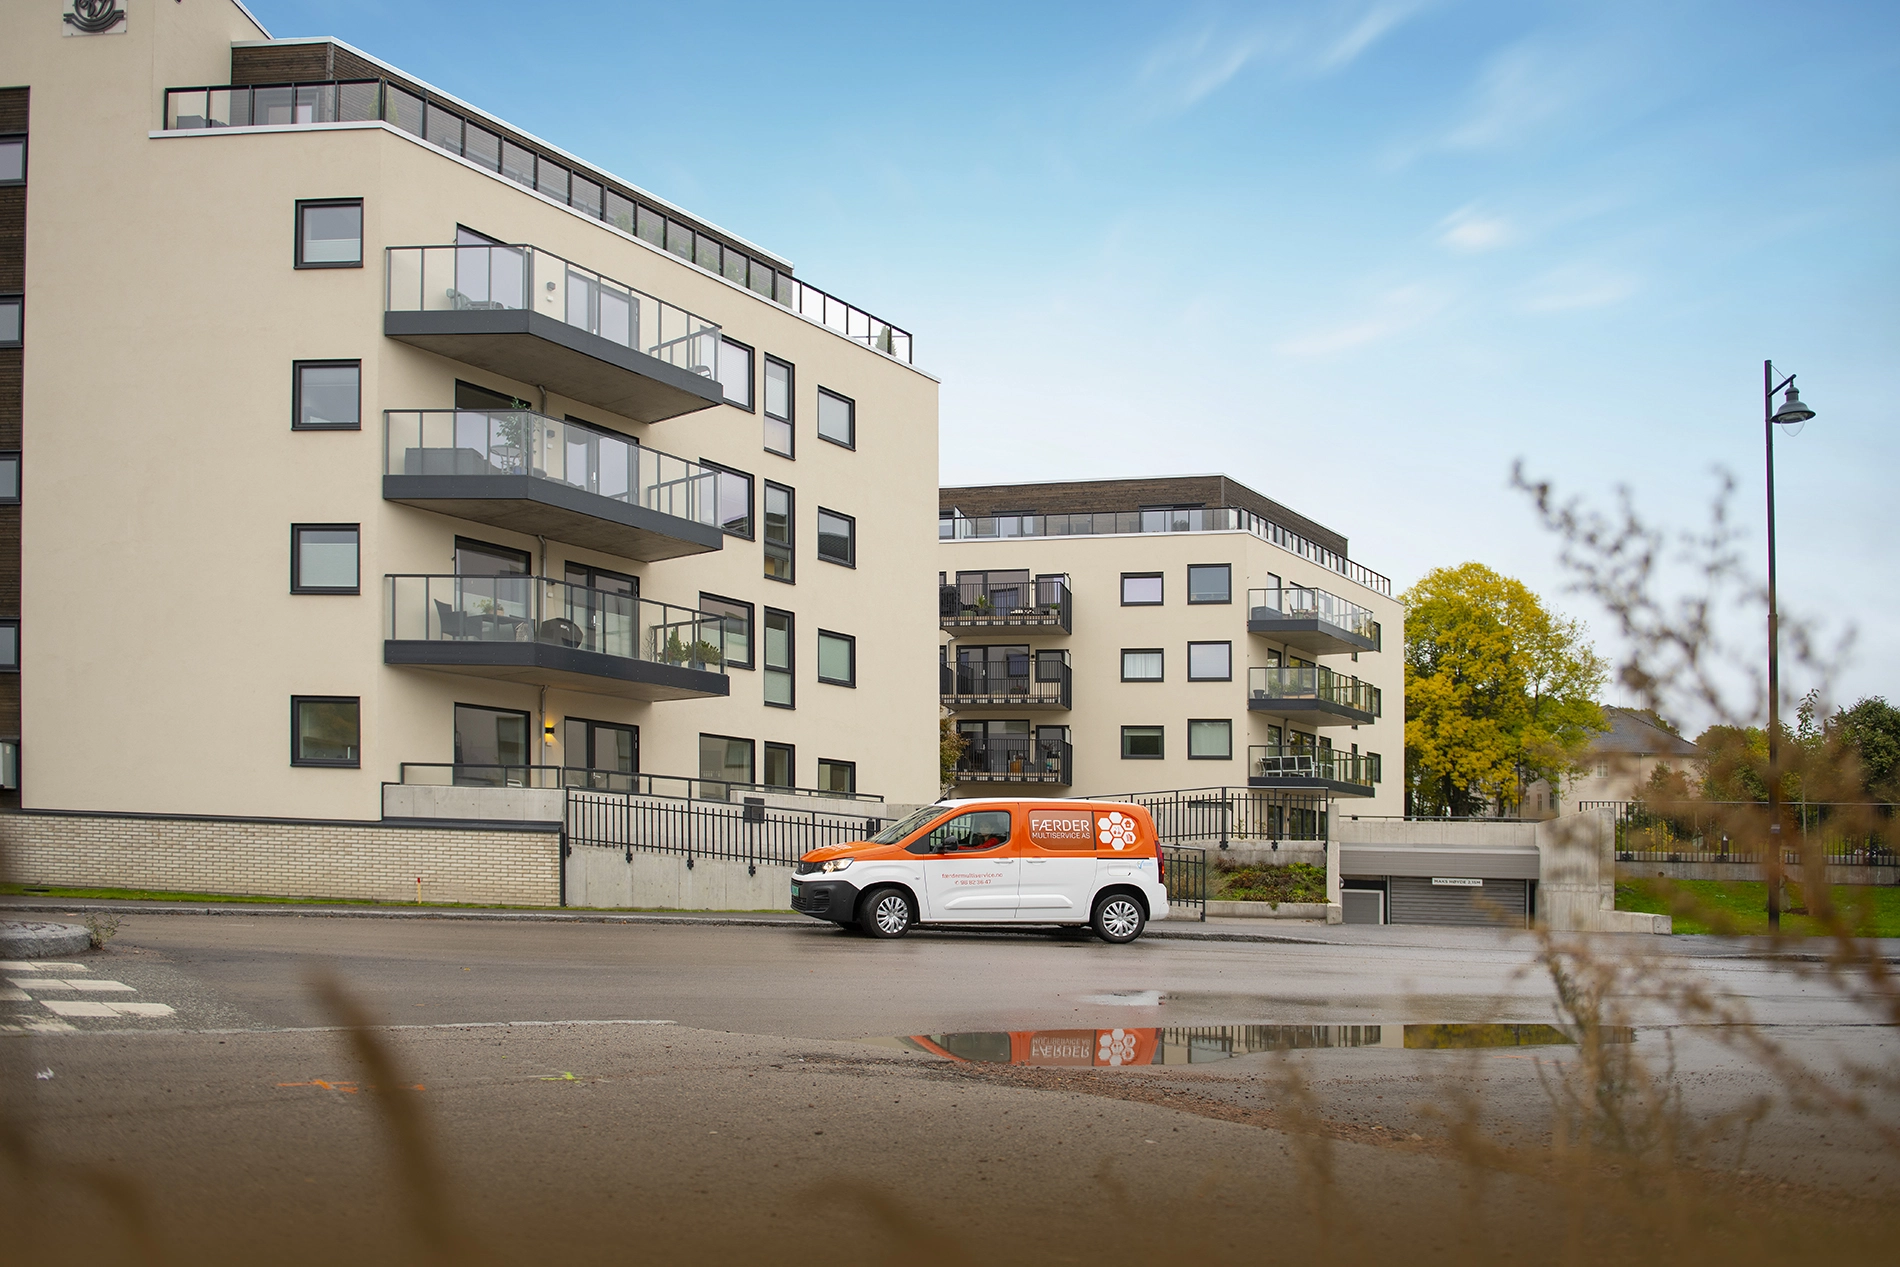
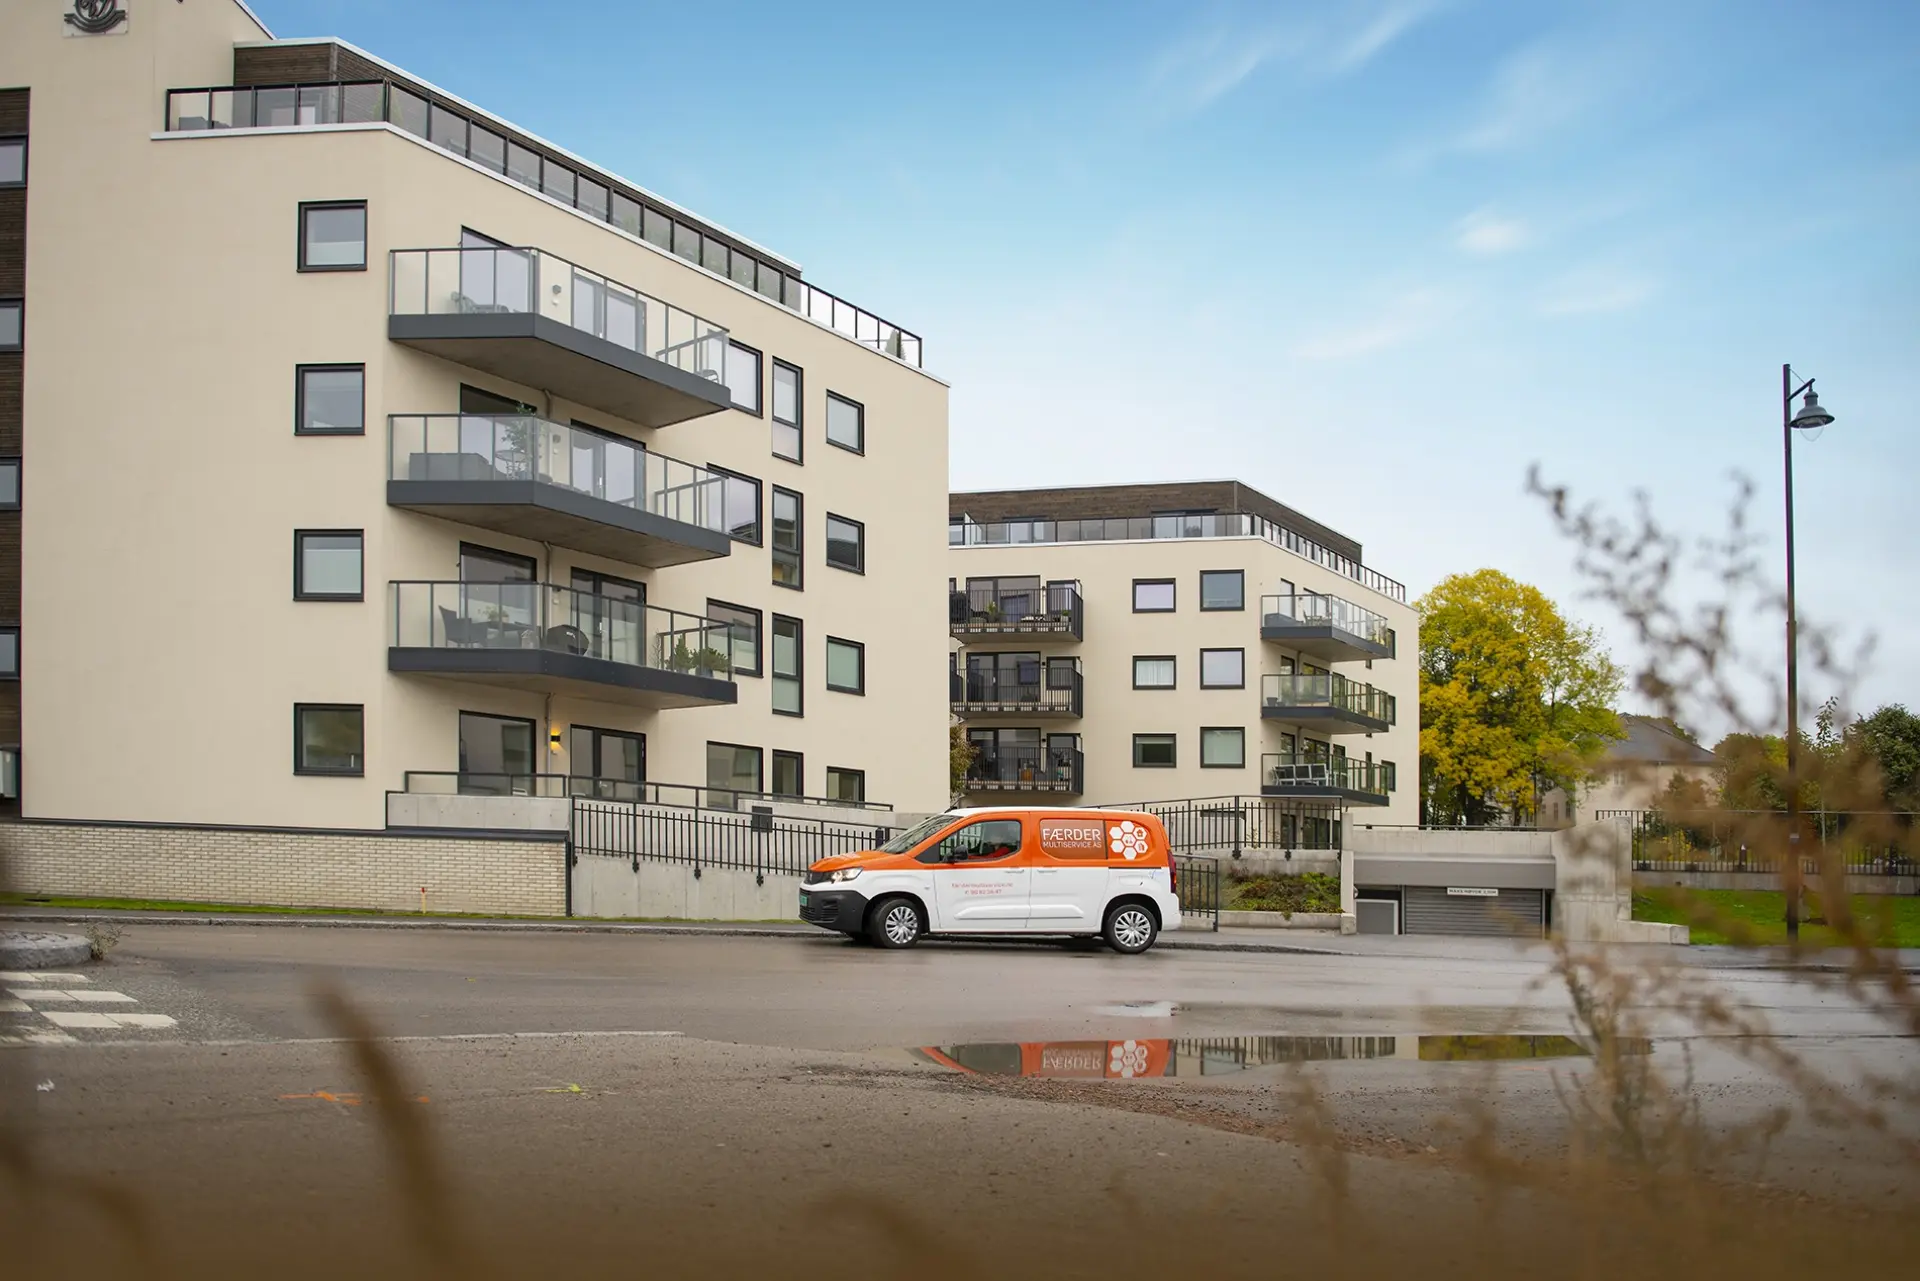
fix: lazy-init Resend client, optimize images, fix text errors
- Make Resend client lazy-initialized to avoid build crash when
  RESEND_API_KEY is not set (fixes Vercel deploy)
- Convert PNGs to WebP and compress all images (~20MB saved)
- Remove unused template SVGs (next.svg, vercel.svg, etc.)
- Fix Norwegian grammar ("Boligen skinner", "Len deg tilbake")
- Correct homepage prices to match services.ts

diff --git a/src/app/page.tsx b/src/app/page.tsx
@@ -18,12 +18,12 @@ import { testimonials } from "@/data/testimonials";
 import { blogPosts } from "@/data/blog";
 
 const tjenester = [
-  { name: "Fast vask", pris: "350 kr/t", slug: "fast-vask", icon: Home },
-  { name: "Flyttevask", pris: "3 500 kr", slug: "flyttevask", icon: Truck },
-  { name: "Kontorvask", pris: "Avtale", slug: "kontorvask", icon: Building2 },
-  { name: "Byggvask", pris: "400 kr/t", slug: "byggvask", icon: HardHat },
-  { name: "Spesialvask", pris: "350 kr/t", slug: "spesialvask", icon: Sparkles },
-  { name: "Luktsanering", pris: "Befaring", slug: "luktsanering", icon: Wind },
+  { name: "Fast vask", pris: "Fra 550 kr", slug: "fast-vask", icon: Home },
+  { name: "Flyttevask", pris: "Fra 3 500 kr", slug: "flyttevask", icon: Truck },
+  { name: "Kontorvask", pris: "Etter avtale", slug: "kontorvask", icon: Building2 },
+  { name: "Byggvask", pris: "Fra 5 000 kr", slug: "byggvask", icon: HardHat },
+  { name: "Spesialvask", pris: "Fra 800 kr", slug: "spesialvask", icon: Sparkles },
+  { name: "Luktsanering", pris: "Fra 3 000 kr", slug: "luktsanering", icon: Wind },
 ];
 
 /* ── Service card — icon + text, no images ── */
@@ -38,7 +38,7 @@ function TjenesteKort({ t }: { t: (typeof tjenester)[number] }) {
       <Icon size={48} strokeWidth={1.2} className="text-primary" />
 
       <h3 className="mt-4 text-[16px] font-semibold tracking-tight text-text">{t.name}</h3>
-      <p className="mt-1.5 text-[13px] font-medium text-primary">Fra {t.pris}</p>
+      <p className="mt-1.5 text-[13px] font-medium text-primary">{t.pris}</p>
 
       <ArrowRight size={14} className="mt-3 text-text-secondary/30 transition-all duration-300 group-hover:translate-x-1 group-hover:text-primary" />
     </Link>
@@ -162,7 +162,7 @@ const stegData = [
   {
     nr: "03",
     tittel: "Vi gjør jobben",
-    tekst: "Lén deg tilbake. Vi fikser resten — grundig og skikkelig.",
+    tekst: "Len deg tilbake. Vi fikser resten — grundig og skikkelig.",
     bilde: "/images/illustrations/steg-vasker.webp",
     alt: "Vasketeamet i arbeid",
     rotate: "-1deg",
@@ -573,7 +573,7 @@ function CTASeksjon() {
           <div className="relative mx-auto max-w-[280px] lg:max-w-[380px]">
             <div className="absolute -top-8 -left-8 -z-10 h-[300px] w-[300px] rounded-full bg-primary/[0.06]" aria-hidden="true" />
             <Image
-              src="/images/illustrations/hjem_til_rent_hus.png"
+              src="/images/illustrations/hjem_til_rent_hus.webp"
               alt="Glad person som kommer hjem til rent hus"
               width={380}
               height={380}

diff --git a/src/data/blog.ts b/src/data/blog.ts
@@ -17,7 +17,7 @@ export const blogPosts: BlogPost[] = [
     excerpt:
       "Skal du flytte? Her er fem tips som gjør at du får tilbake depositumet og leverer en bolig du kan være stolt av.",
     tags: ["Tips", "Flyttevask"],
-    image: "/images/illustrations/blogg-flyttevask.png",
+    image: "/images/illustrations/blogg-flyttevask.webp",
     date: "Februar 2026",
     seoTitle: "5 ting du bør vite før du bestiller flyttevask — Færder Multiservice",
     seoDescription:
@@ -45,7 +45,7 @@ export const blogPosts: BlogPost[] = [
     excerpt:
       "Ukentlig, annenhver uke eller månedlig? Vi hjelper deg å finne riktig frekvens for hjemmet ditt.",
     tags: ["Guide", "Fast vask"],
-    image: "/images/illustrations/blogg-fast-vask.png",
+    image: "/images/illustrations/blogg-fast-vask.webp",
     date: "Februar 2026",
     seoTitle: "Hvor ofte bør du ha fast vask? En guide — Færder Multiservice",
     seoDescription:
@@ -73,7 +73,7 @@ export const blogPosts: BlogPost[] = [
     excerpt:
       "Små daglige rutiner gjør en stor forskjell. Her er våre beste tips for et rent hjem — uten å bruke hele helgen.",
     tags: ["Tips", "Renhold"],
-    image: "/images/illustrations/blogg-rent-mellom.png",
+    image: "/images/illustrations/blogg-rent-mellom.webp",
     date: "Januar 2026",
     seoTitle: "Slik holder du hjemmet rent mellom vaskene — Færder Multiservice",
     seoDescription:
@@ -101,7 +101,7 @@ export const blogPosts: BlogPost[] = [
     excerpt:
       "Et rent arbeidsmiljø øker produktivitet, reduserer sykefravær og gir et bedre inntrykk på kunder og ansatte.",
     tags: ["Guide", "Kontor"],
-    image: "/images/illustrations/blogg-profesjonelt-renhold.png",
+    image: "/images/illustrations/blogg-profesjonelt-renhold.webp",
     date: "Januar 2026",
     seoTitle: "Derfor bør bedrifter investere i profesjonelt renhold — Færder Multiservice",
     seoDescription:

diff --git a/src/app/api/lead/route.ts b/src/app/api/lead/route.ts
@@ -3,8 +3,15 @@ import { Resend } from "resend";
 import { Ratelimit } from "@upstash/ratelimit";
 import { Redis } from "@upstash/redis";
 
-// ── Resend client ──
-const resend = new Resend(process.env.RESEND_API_KEY);
+// ── Resend client (lazy — avoids build crash when env var is missing) ──
+let _resend: Resend | null = null;
+function getResend() {
+  if (!_resend) {
+    if (!process.env.RESEND_API_KEY) return null;
+    _resend = new Resend(process.env.RESEND_API_KEY);
+  }
+  return _resend;
+}
 
 // ── Rate limiter (optional — skipped if env vars missing) ──
 const ratelimit =
@@ -55,6 +62,14 @@ export async function POST(req: NextRequest) {
     const valg = body.valg as Record<string, string> | undefined;
     const tillegg = body.tillegg as string[] | undefined;
     const estimertPris = String(body.estimertPris ?? "").trim();
+
+    const resend = getResend();
+    if (!resend) {
+      return NextResponse.json(
+        { error: "E-post er ikke konfigurert." },
+        { status: 503 }
+      );
+    }
 
     const fromEmail = process.env.RESEND_FROM_EMAIL ?? "onboarding@resend.dev";
     const notificationEmail = process.env.NOTIFICATION_EMAIL ?? "post@faerdermultiservice.no";

diff --git a/src/app/api/contact/route.ts b/src/app/api/contact/route.ts
@@ -3,8 +3,15 @@ import { Resend } from "resend";
 import { Ratelimit } from "@upstash/ratelimit";
 import { Redis } from "@upstash/redis";
 
-// ── Resend client ──
-const resend = new Resend(process.env.RESEND_API_KEY);
+// ── Resend client (lazy — avoids build crash when env var is missing) ──
+let _resend: Resend | null = null;
+function getResend() {
+  if (!_resend) {
+    if (!process.env.RESEND_API_KEY) return null;
+    _resend = new Resend(process.env.RESEND_API_KEY);
+  }
+  return _resend;
+}
 
 // ── Rate limiter (optional — skipped if env vars missing) ──
 const ratelimit =
@@ -68,6 +75,14 @@ export async function POST(req: NextRequest) {
     const sted = String(body.sted ?? "").trim();
     const tjeneste = String(body.tjeneste ?? "").trim();
     const melding = String(body.melding ?? "").trim();
+
+    const resend = getResend();
+    if (!resend) {
+      return NextResponse.json(
+        { error: "E-post er ikke konfigurert." },
+        { status: 503 }
+      );
+    }
 
     const fromEmail = process.env.RESEND_FROM_EMAIL ?? "onboarding@resend.dev";
     const notificationEmail = process.env.NOTIFICATION_EMAIL ?? "post@faerdermultiservice.no";

diff --git a/src/data/services.ts b/src/data/services.ts
@@ -333,7 +333,7 @@ export const services: Service[] = [
     steps: [
       { title: "Si ifra", description: "Boligtype, størrelse og når visningen er." },
       { title: "Du får fast pris", description: "Ingen overraskelser. Rett frem." },
-      { title: "Vi gjør den klar", description: "Boligen skinne til visning og foto." },
+      { title: "Vi gjør den klar", description: "Boligen skinner til visning og foto." },
     ],
     faq: [
       { question: "Hvor tidlig bør jeg bestille?", answer: "Helst 3–5 dager før. Haster det? Bare ring — vi prøver alltid å få det til." },
